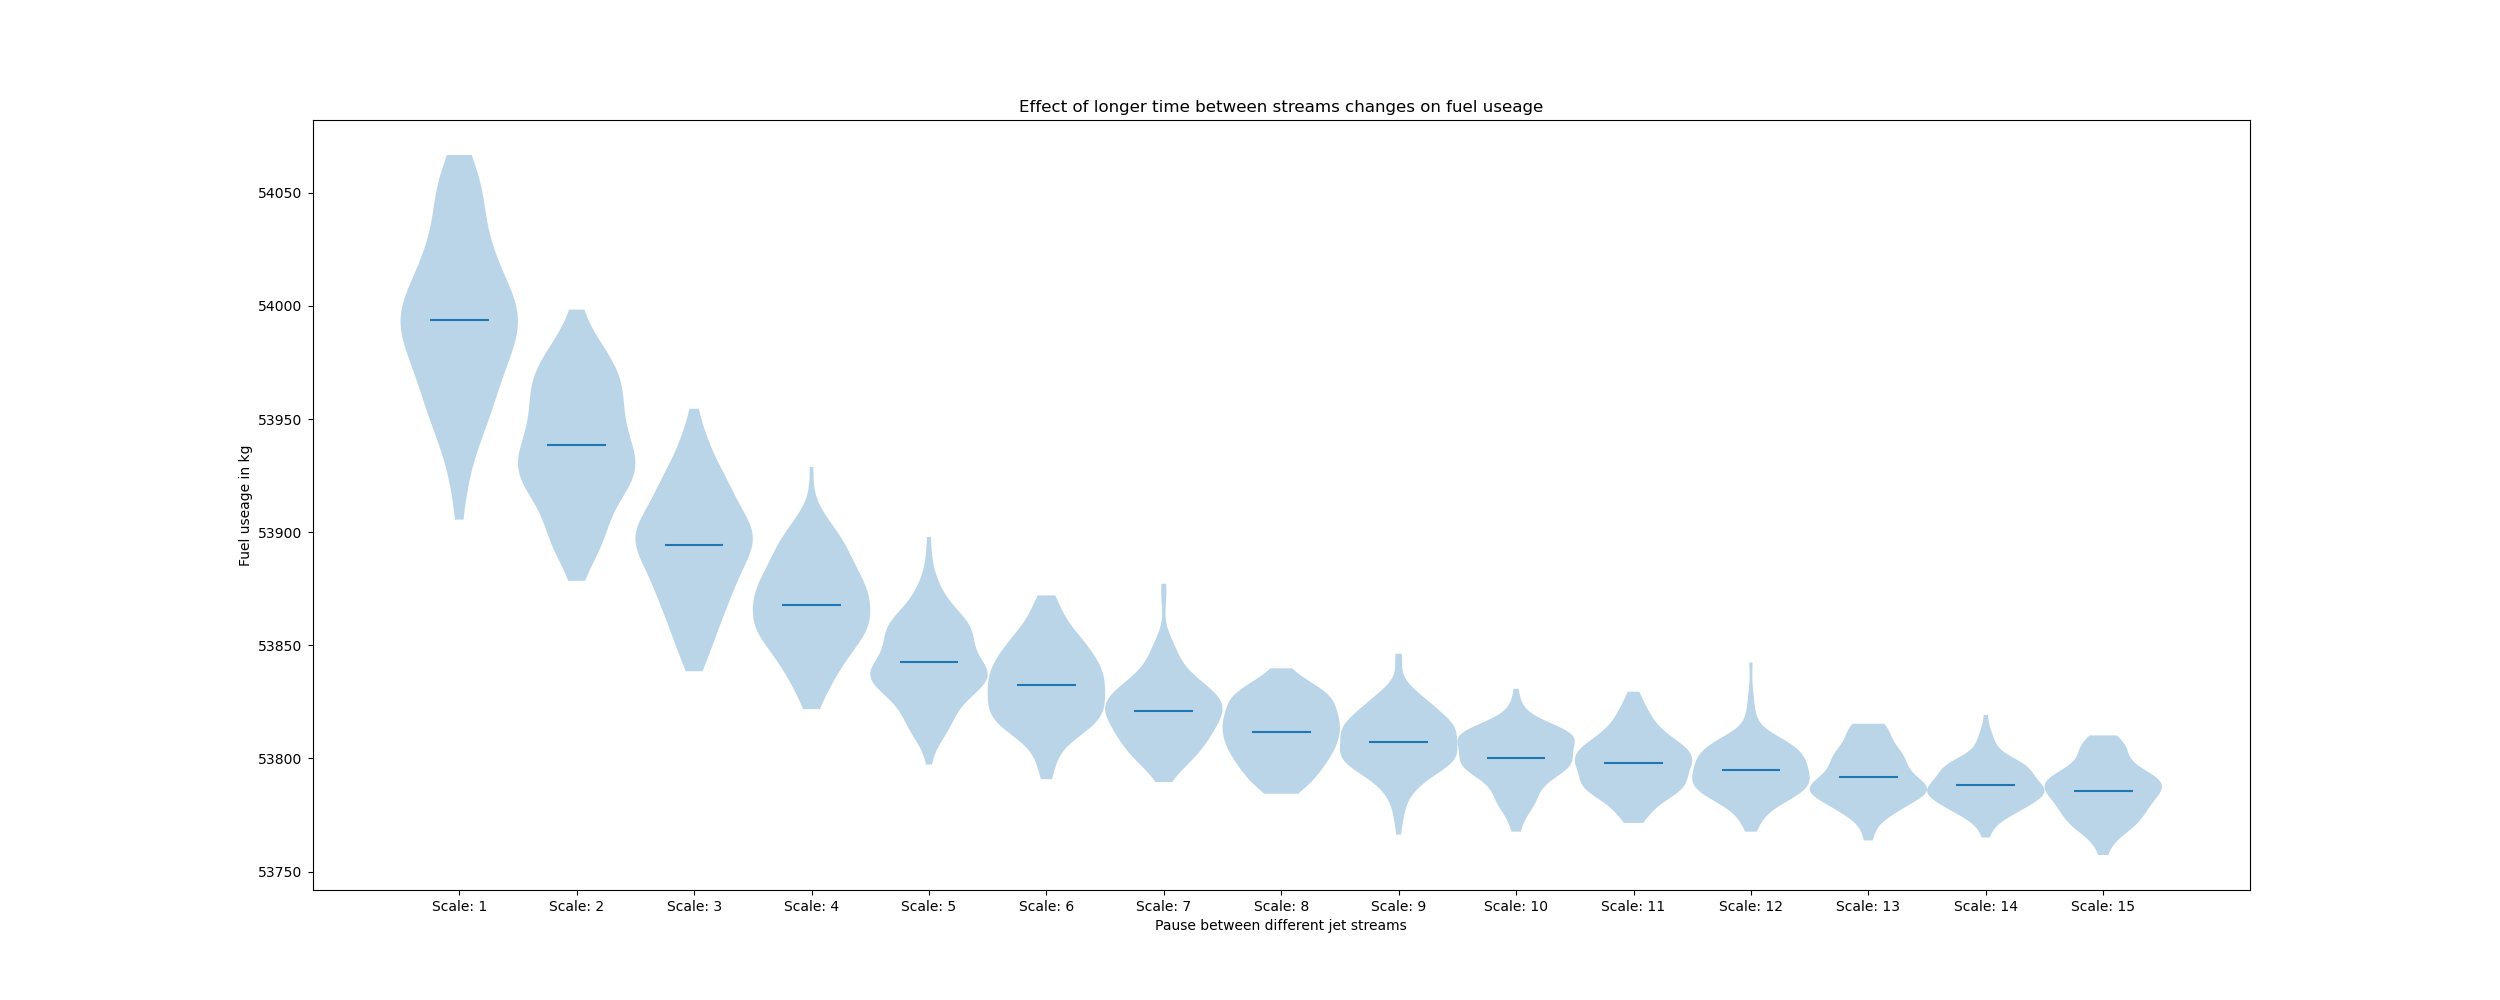
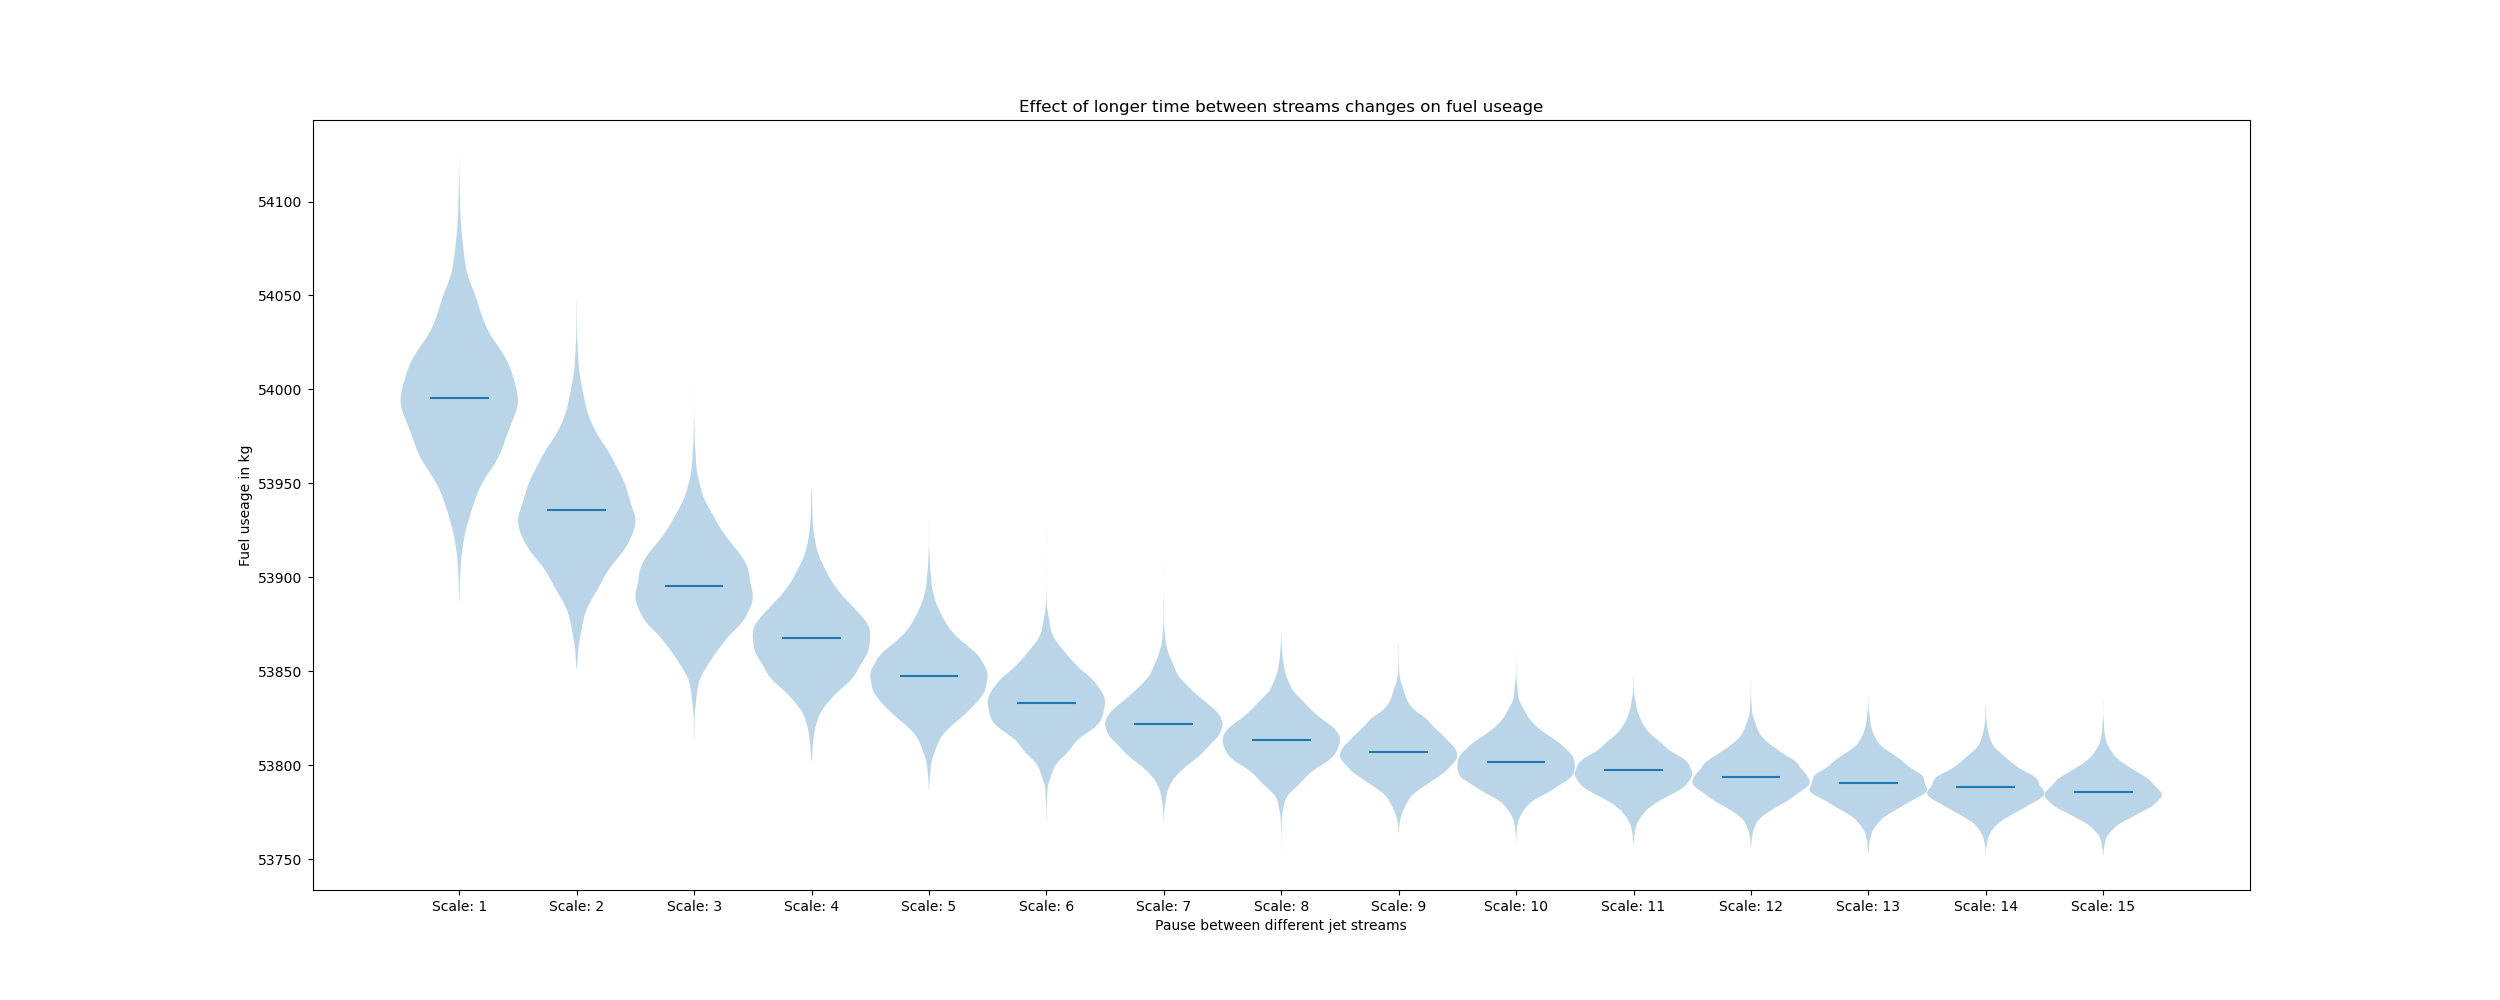
plots

diff --git a/simulation.py b/simulation.py
@@ -196,45 +196,8 @@ def make_plots(runs=100):
 
 
 def main():
-    make_plots(runs=1000)
-    # BOEING 787-9
-    # DISTANCE = 5862.03*1000  # m (distance Amsterdam - New York)
-    # SPEED = 900/3.6  # m/s
-    # FUEL = 126370
-    # ZERO_FUEL = 181400  # KG
-    # FUEL = 80000  # KG
-    # MAX_HEIGHT = 13100  # m
-    # MOTOR_POWER = 7.7/(1000*1000)  # g/N*S
-    # WING_SPAN = 360.5  # m2
-    # C = 0.012  # air drag coefficent of subsonic transport airplane.
-    # AIR_DENSITTY = 1.225  # kg/m^3
-    # # IMPULSE = 13200
-    # THRUST = 360.4 * 1000 * 2 #N/s
-    # ASCEND_ANGLE_NOSE = math.radians(15)
-    # DESCEND_ANGLE_NOSE = math.radians(-3)
-    # ASCEND_ANGLE_WING = math.radians(25)
-    # DESCEND_ANGLE_WING = math.radians(-25)
-    # ASCEND_ANGLE = (ASCEND_ANGLE_WING, ASCEND_ANGLE_NOSE)
-    # DESCEND_ANGLE = (DESCEND_ANGLE_WING, DESCEND_ANGLE_WING)
-    # TAKEOFF_SPEED = 100 #m/s
-    # JET_MINSPEED = 25 #m/s
-    # JET_MAXSPEED = 100 #m/s
-    # LATITUDE = math.radians(50)
-    # AVG_TEMPERATURE = 221 #K
+    make_plots(runs=5000)
 
-    # boeing = Plane(max_velocity=SPEED, empty_weight=ZERO_FUEL, fuel=FUEL, max_height=MAX_HEIGHT,
-    #                power=MOTOR_POWER, wing_span=WING_SPAN, thrust=THRUST, takeoff_speed=TAKEOFF_SPEED)
-    # wind = Wind(-1)
-    # temperature = Temperature(0, 0, AVG_TEMPERATURE)
-    # jet_stream = Jet_stream(LATITUDE, MAX_HEIGHT)
-    # flight_sim = Flight(boeing, wind, jet_stream, temperature, DISTANCE, AIR_DENSITTY)
-    # flight_sim.run_sim(ASCEND_ANGLE_NOSE, DESCEND_ANGLE)
-
-    # print(flight_sim.timeLst)
-    # print(flight_sim.heightLst)
-    # print(flight_sim.positionLst)
-    # plt.plot(flight_sim.timeLst, flight_sim.upward_velocityLst)
-    # plt.show()
     # usedLst = []
     # wind = Wind(-1)
     # # wind = Wind(-1)
